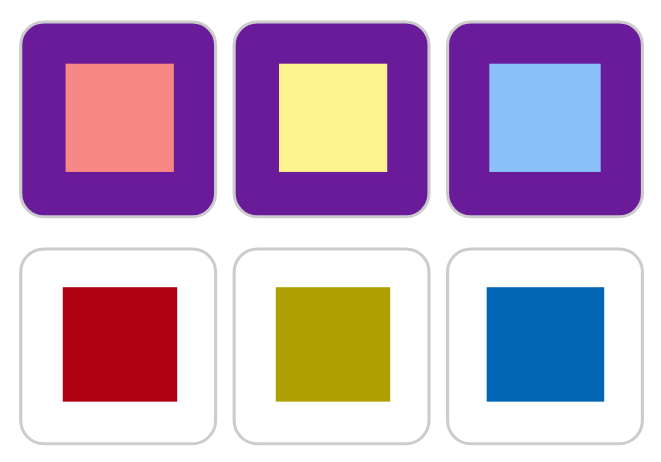
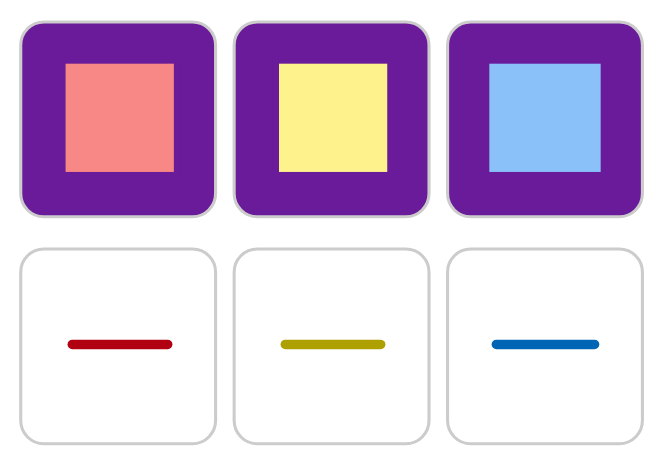
Pen Tool Extras details page: shorter text, retaken pen-colors picture (#222)
* Pen Tool Extras details page: shorter text (wording pinned in site.test.js)

* Pen Tool Extras details page: retake the pen-colors picture, refresh page screenshots, lint fix

Closes #221

* site.test.js: rename the Good to know test to match the new sentence

---------

Changed region(s): [[0.7262, 0.6061, 0.938, 0.8788], [0.3933, 0.6061, 0.6051, 0.8788], [0.0908, 0.6061, 0.2723, 0.8788]]

diff --git a/site.test.js b/site.test.js
@@ -82,7 +82,7 @@ test('the details page links back to the homepage and carries the Pen Tool Extra
 const WARNING = /<\/h1>\s*<p class="warning">([\s\S]*?)<\/p>/
 const WARNINGS = {
   [HOME]: "These scripts can break at any time, and there are no guarantees. They rely on SudokuPad's internals, which aren't a public API, so any SudokuPad update can break them without notice. They aren't made or supported by SudokuPad.",
-  [DETAILS]: "This script can break at any time, and there are no guarantees. It relies on SudokuPad's internals, which aren't a public API, so any SudokuPad update can break it without notice. It isn't made or supported by SudokuPad."
+  [DETAILS]: "This script can break at any time. It relies on SudokuPad's internals, which any update can change, and it isn't made or supported by SudokuPad."
 }
 
 for (const [name, text] of Object.entries(WARNINGS)) {
@@ -110,20 +110,20 @@ const leadIn = li => (li.match(/^<strong>([^<]*)<\/strong>/) || [])[1]
 const leadIns = page => items(page).map(leadIn).filter(Boolean)
 
 test(`${DETAILS} intro says what the script adds`, () => {
-  const m = read(DETAILS).match(/<\/p>\s*<p>(Pen Tool Extras makes[\s\S]*?)<\/p>/)
-  assert.ok(m, `site/${DETAILS} has no intro paragraph starting "Pen Tool Extras makes"`)
-  assert.equal(plain(m[1]), "Pen Tool Extras makes SudokuPad's pen tool more useful. It adds pen colors that match your cell colors, dashed lines and lines with arrows, and marks you can put on cell edges and grid corners. Turn the pen tool on in SudokuPad's settings first.")
+  const m = read(DETAILS).match(/<\/p>\s*<p>(Adds to <a href="https:\/\/sudokupad\.app">SudokuPad<\/a>'s pen tool[\s\S]*?)<\/p>/)
+  assert.ok(m, `site/${DETAILS} has no intro paragraph starting "Adds to SudokuPad's pen tool", with SudokuPad linked`)
+  assert.equal(plain(m[1]), "Adds to SudokuPad's pen tool: pen colors that match your cell colors, dashed and arrow lines, and marks on cell edges and grid corners. Turn the pen tool on in SudokuPad's settings first.")
 })
 
 test(`${DETAILS} lists what the script adds, one item per feature`, () => {
   assert.deepEqual(section(read(DETAILS), 'What it adds'), [
-    'Pen colors that match your cell colors. The nine pen colors are darker versions of your cell colors, so a line matches the cells it marks. Change any of them by holding its pen color button, or in the settings dialog. A button there brings back SudokuPad\'s own pen colors.',
-    'Dashed lines and arrow lines. Two extra pages of pens: one draws dashed lines, the other draws lines with arrows along them. Switch pages with the page button, the Tab key, or the mouse wheel over the page button. You can turn off either page, and set the dash length and the arrow spacing, in the settings.',
-    'Marks on cell edges. Click a cell edge to put an X, a circle or an arrow on it. Click again to cycle through them, or right-click to go back.',
-    'Marks on grid corners. Click near a grid corner for an X or a circle. Right-click goes back here too.',
-    'Erase a whole line in one click. A middle click removes the line under the pointer, branches and all, in one undo step. An arrow line goes in one click from either end. You can turn this off in the settings.',
-    'Thicker, fainter or outlined lines. Thickness and opacity sliders sit in the pen panel, and you can hide either one. A white outline, on by default, keeps lines readable over colored cells. You can set its width.',
-    'Settings one click away. A small gear on the pen tool button opens the settings dialog.'
+    'Pen colors that match your cell colors. Darker versions of your cell colors. Hold a pen color button to change one.',
+    'Dashed lines and arrow lines. Two more pages of pens. Switch with the page button.',
+    'Marks on cell edges. Click an edge for an X, a circle or an arrow. Right-click goes back.',
+    'Marks on grid corners. Click near a corner for an X or a circle.',
+    'Erase a whole line. Middle-click a line to remove all of it.',
+    'Thicker, fainter or outlined lines. Sliders in the pen panel. A white outline keeps lines readable over colored cells.',
+    'A settings gear. On the pen tool button.'
   ])
 })
 
@@ -133,9 +133,9 @@ test(`${DETAILS} opens each feature with its bold lead-in`, () => {
     'Dashed lines and arrow lines.',
     'Marks on cell edges.',
     'Marks on grid corners.',
-    'Erase a whole line in one click.',
+    'Erase a whole line.',
     'Thicker, fainter or outlined lines.',
-    'Settings one click away.'
+    'A settings gear.'
   ])
 })
 
@@ -147,9 +147,9 @@ const PICTURES = {
   'Marks on cell edges.': 'edges',
   'Marks on grid corners.': 'corners',
   'Thicker, fainter or outlined lines.': 'sliders',
-  'Settings one click away.': 'gear'
+  'A settings gear.': 'gear'
 }
-const NO_PICTURE = 'Erase a whole line in one click.'
+const NO_PICTURE = 'Erase a whole line.'
 const imgs = html => [...html.matchAll(/<img\b[^>]*>/g)].map(m => m[0])
 
 test(`${DETAILS} puts one picture with alt text on each feature a picture can show`, () => {
@@ -171,8 +171,8 @@ test(`${DETAILS} has no picture on the erase item and no large example figure`, 
   assert.equal(imgs(page).length, Object.keys(PICTURES).length)
 })
 
-test(`${DETAILS} good to know names the dashed and arrow pages`, () => {
-  assert.deepEqual(section(read(DETAILS), 'Good to know'), ["Other people can't see lines from the dashed or arrow pages unless they have the script too."])
+test(`${DETAILS} good to know says others need the script to see dashed and arrow lines`, () => {
+  assert.deepEqual(section(read(DETAILS), 'Good to know'), ['Others see your dashed and arrow lines only if they have the script too.'])
 })
 
 test(`${HOME} describes Pen Tool Extras by what it adds, not by its sliders`, () => {

diff --git a/site/pen-tool-extras.html b/site/pen-tool-extras.html
@@ -14,36 +14,36 @@
 <body>
   <p><a href="index.html">&larr; All SudokuPad scripts</a></p>
   <h1>Pen Tool Extras</h1>
-  <p class="warning">This script can break at any time, and there are no guarantees. It relies on SudokuPad's internals, which aren't a public API, so any SudokuPad update can break it without notice. It isn't made or supported by SudokuPad.</p>
-  <p>Pen Tool Extras makes <a href="https://sudokupad.app">SudokuPad</a>'s pen tool more useful. It adds pen colors that match your cell colors, dashed lines and lines with arrows, and marks you can put on cell edges and grid corners. Turn the pen tool on in SudokuPad's settings first.</p>
+  <p class="warning">This script can break at any time. It relies on SudokuPad's internals, which any update can change, and it isn't made or supported by SudokuPad.</p>
+  <p>Adds to <a href="https://sudokupad.app">SudokuPad</a>'s pen tool: pen colors that match your cell colors, dashed and arrow lines, and marks on cell edges and grid corners. Turn the pen tool on in SudokuPad's settings first.</p>
   <p><a class="install" href="https://raw.githubusercontent.com/caneff/sudokupad-scripts/main/pen-tool-extras.user.js">Install Pen Tool Extras</a></p>
 
   <h2>What it adds</h2>
   <ul>
-    <li><strong>Pen colors that match your cell colors.</strong> The nine pen colors are darker versions of your cell colors, so a line matches the cells it marks. Change any of them by holding its pen color button, or in the settings dialog. A button there brings back SudokuPad's own pen colors.
+    <li><strong>Pen colors that match your cell colors.</strong> Darker versions of your cell colors. Hold a pen color button to change one.
       <img src="https://raw.githubusercontent.com/caneff/sudokupad-scripts/main/docs/research/pen-tool-extras-bullet-colors.png" alt="A row of three cell color buttons, pink, yellow and light blue, above a row of three pen color buttons, red, olive and blue, each a darker version of the cell color above it" width="661" height="462">
     </li>
-    <li><strong>Dashed lines and arrow lines.</strong> Two extra pages of pens: one draws dashed lines, the other draws lines with arrows along them. Switch pages with the page button, the Tab key, or the mouse wheel over the page button. You can turn off either page, and set the dash length and the arrow spacing, in the settings.
+    <li><strong>Dashed lines and arrow lines.</strong> Two more pages of pens. Switch with the page button.
       <img src="https://raw.githubusercontent.com/caneff/sudokupad-scripts/main/docs/research/pen-tool-extras-bullet-lines.png" alt="A blue dashed line and an orange arrow line drawn on a sudoku grid, beside the pen page button" width="930" height="721">
     </li>
-    <li><strong>Marks on cell edges.</strong> Click a cell edge to put an X, a circle or an arrow on it. Click again to cycle through them, or right-click to go back.
+    <li><strong>Marks on cell edges.</strong> Click an edge for an X, a circle or an arrow. Right-click goes back.
       <img src="https://raw.githubusercontent.com/caneff/sudokupad-scripts/main/docs/research/pen-tool-extras-bullet-edges.png" alt="A blue X, a green circle and two direction arrows, red and brown, marking cell edges on a sudoku grid" width="495" height="282">
     </li>
-    <li><strong>Marks on grid corners.</strong> Click near a grid corner for an X or a circle. Right-click goes back here too.
+    <li><strong>Marks on grid corners.</strong> Click near a corner for an X or a circle.
       <img src="https://raw.githubusercontent.com/caneff/sudokupad-scripts/main/docs/research/pen-tool-extras-bullet-corners.png" alt="A purple X on one grid corner and a blue circle on another" width="282" height="240">
     </li>
-    <li><strong>Erase a whole line in one click.</strong> A middle click removes the line under the pointer, branches and all, in one undo step. An arrow line goes in one click from either end. You can turn this off in the settings.</li>
-    <li><strong>Thicker, fainter or outlined lines.</strong> Thickness and opacity sliders sit in the pen panel, and you can hide either one. A white outline, on by default, keeps lines readable over colored cells. You can set its width.
+    <li><strong>Erase a whole line.</strong> Middle-click a line to remove all of it.</li>
+    <li><strong>Thicker, fainter or outlined lines.</strong> Sliders in the pen panel. A white outline keeps lines readable over colored cells.
       <img src="https://raw.githubusercontent.com/caneff/sudokupad-scripts/main/docs/research/pen-tool-extras-bullet-sliders.png" alt="The pen panel's Thickness and Opacity sliders above a thick blue line with a white outline crossing yellow cells" width="721" height="471">
     </li>
-    <li><strong>Settings one click away.</strong> A small gear on the pen tool button opens the settings dialog.
+    <li><strong>A settings gear.</strong> On the pen tool button.
       <img src="https://raw.githubusercontent.com/caneff/sudokupad-scripts/main/docs/research/pen-tool-extras-bullet-gear.png" alt="The pen tool button with a small settings gear in its corner" width="96" height="96">
     </li>
   </ul>
 
   <h2>Good to know</h2>
   <ul>
-    <li>Other people can't see lines from the dashed or arrow pages unless they have the script too.</li>
+    <li>Others see your dashed and arrow lines only if they have the script too.</li>
   </ul>
   <p>More detail: <a href="https://github.com/caneff/sudokupad-scripts/blob/main/docs/pen-tool-extras.md">the full reference</a>.</p>
   <p><a href="index.html">&larr; All SudokuPad scripts</a> &middot; <a href="https://github.com/caneff/sudokupad-scripts">Source on GitHub</a></p>
